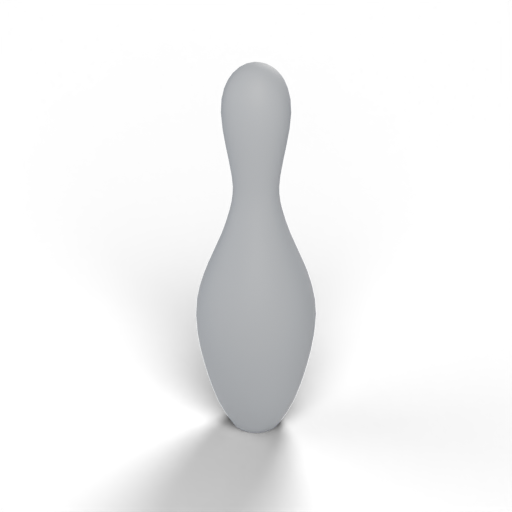
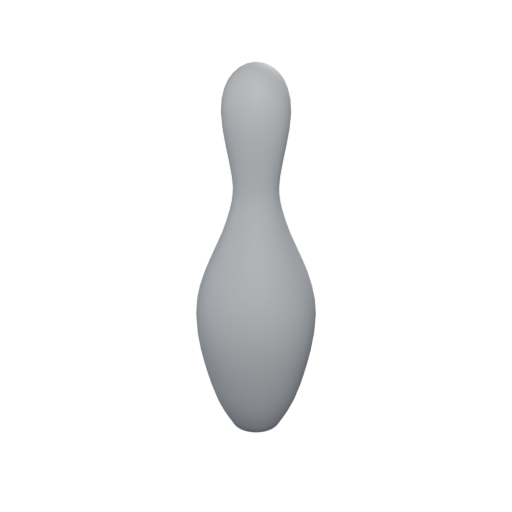
Remove shadows from thumbnails

Changed region(s): [[0.2188, 0.5938, 0.625, 1.0], [0.5312, 0.2812, 0.5625, 0.3438]]

diff --git a/scripts/sync_catalog.py b/scripts/sync_catalog.py
@@ -1,0 +1,114 @@
+"""Keep each catalog entry's "formats" map in sync with the files on disk.
+
+    python3 scripts/sync_catalog.py          # update catalog.json
+    python3 scripts/sync_catalog.py --check  # exit 1 if catalog.json is out of date (for CI)
+
+A model's formats are the files next to its `asset` that share its base name,
+e.g. models/coffee-mug.glb + models/coffee-mug.blend. Entries whose file no
+longer exists are dropped. Plain Python, no Blender needed; render_thumbnails.py
+also runs this before rendering.
+"""
+
+import argparse
+import json
+import os
+import sys
+
+ROOT = os.path.dirname(os.path.dirname(os.path.abspath(__file__)))
+CATALOG = os.path.join(ROOT, "catalog.json")
+
+# File extensions recognised as model formats. Blender backups (.blend1) are not listed on purpose.
+MODEL_EXTENSIONS = ("glb", "gltf", "blend", "fbx", "obj", "usdz", "usd", "usda", "usdc", "stl", "ply", "dae", "3mf")
+
+
+def detect_formats(entry):
+    """Return the formats map for one entry: the asset's own format first, then the rest alphabetically."""
+    asset = entry["asset"]
+    folder, name = os.path.split(asset)
+    stem, ext = os.path.splitext(name)
+    primary = ext.lstrip(".").lower()
+
+    found = {}
+    abs_folder = os.path.join(ROOT, folder)
+    if os.path.isdir(abs_folder):
+        for filename in os.listdir(abs_folder):
+            f_stem, f_ext = os.path.splitext(filename)
+            fmt = f_ext.lstrip(".").lower()
+            if f_stem == stem and fmt in MODEL_EXTENSIONS:
+                found[fmt] = f"{folder}/{filename}" if folder else filename
+
+    # Always list the asset itself, even if it is missing, so the problem stays visible.
+    found[primary] = asset
+    return {primary: asset, **{k: found[k] for k in sorted(found) if k != primary}}
+
+
+def sync_formats(catalog):
+    """Update every entry's "formats" in place. Returns a list of human-readable changes."""
+    changes = []
+    for i, entry in enumerate(catalog["models"]):
+        old = entry.get("formats", {})
+        new = detect_formats(entry)
+        if old == new:
+            continue
+        added = sorted(set(new) - set(old))
+        removed = sorted(set(old) - set(new))
+        parts = [f"+{f}" for f in added] + [f"-{f}" for f in removed]
+        changes.append(f"{entry['id']}: {' '.join(parts) or 'reordered'}")
+        # Rebuild the entry so "formats" sits right after "asset".
+        rebuilt = {}
+        for key, value in entry.items():
+            if key == "formats":
+                continue
+            rebuilt[key] = value
+            if key == "asset":
+                rebuilt["formats"] = new
+        catalog["models"][i] = rebuilt
+    return changes
+
+
+def load_catalog():
+    with open(CATALOG, encoding="utf-8") as f:
+        text = f.read()
+    return json.loads(text), text
+
+
+def dump_catalog(catalog, original_text):
+    text = json.dumps(catalog, indent=2, ensure_ascii=False)
+    return text + "\n" if original_text.endswith("\n") else text
+
+
+def save_catalog(catalog, original_text):
+    """Write catalog.json if it changed, keeping its formatting. Returns True if written."""
+    text = dump_catalog(catalog, original_text)
+    if text == original_text:
+        return False
+    with open(CATALOG, "w", encoding="utf-8") as f:
+        f.write(text)
+    return True
+
+
+def main():
+    p = argparse.ArgumentParser(prog="sync_catalog.py")
+    p.add_argument("--check", action="store_true", help="don't write; exit 1 if catalog.json is out of date")
+    args = p.parse_args()
+
+    catalog, original = load_catalog()
+    changes = sync_formats(catalog)
+    for change in changes:
+        print(f"[formats] {change}")
+
+    if args.check:
+        if changes:
+            print("[formats] catalog.json is out of date; run scripts/sync_catalog.py", file=sys.stderr)
+            sys.exit(1)
+        print("[formats] catalog.json is up to date")
+        return
+
+    if save_catalog(catalog, original):
+        print("[formats] updated catalog.json")
+    else:
+        print("[formats] catalog.json is up to date")
+
+
+if __name__ == "__main__":
+    main()

diff --git a/scripts/render_thumbnails.py b/scripts/render_thumbnails.py
@@ -12,13 +12,13 @@ Options (after the `--`):
     --cpu              Do not try GPU rendering.
 
 Each model is imported, framed from a fixed 3/4 angle, lit with a simple
-studio rig and rendered on a transparent background with a soft contact
-shadow. Output goes to thumbnails/<asset basename>.png and the model's
-"thumbnail" field in catalog.json is filled in when it is missing.
+studio rig and rendered on a transparent background (no floor shadow).
+Output goes to thumbnails/<asset basename>.png and the model's
+"thumbnail" field in catalog.json is filled in when it is missing. Each
+entry's "formats" map is also refreshed first (see sync_catalog.py).
 """
 
 import argparse
-import json
 import math
 import os
 import sys
@@ -27,8 +27,8 @@ import time
 import bpy
 from mathutils import Vector
 
-ROOT = os.path.dirname(os.path.dirname(os.path.abspath(__file__)))
-CATALOG = os.path.join(ROOT, "catalog.json")
+sys.path.insert(0, os.path.dirname(os.path.abspath(__file__)))
+from sync_catalog import ROOT, load_catalog, save_catalog, sync_formats  # noqa: E402
 
 # Camera looks down at the model from the front-right, like a product shot.
 VIEW_AZIMUTH_DEG = 35.0
@@ -196,22 +196,6 @@ def add_lighting(scene, lo, hi):
     scene.world = world
 
 
-def add_shadow_catcher(scene, lo, hi):
-    """Invisible floor that only keeps the model's shadow, so the PNG stays transparent."""
-    size = (hi - lo).length * 20
-    mesh = bpy.data.meshes.new("Floor")
-    half = size / 2
-    z = lo.z
-    mesh.from_pydata(
-        [(-half, -half, z), (half, -half, z), (half, half, z), (-half, half, z)], [], [(0, 1, 2, 3)]
-    )
-    floor = bpy.data.objects.new("Floor", mesh)
-    floor.location.x = (lo.x + hi.x) / 2
-    floor.location.y = (lo.y + hi.y) / 2
-    floor.is_shadow_catcher = True
-    scene.collection.objects.link(floor)
-
-
 def thumbnail_path(entry):
     base = os.path.splitext(os.path.basename(entry["asset"]))[0]
     return entry.get("thumbnail") or f"thumbnails/{base}.png"
@@ -233,29 +217,17 @@ def render_one(entry, args, thumb_rel):
     lo, hi = world_bounds(objects)
     add_camera(scene, lo, hi)
     add_lighting(scene, lo, hi)
-    add_shadow_catcher(scene, lo, hi)
     os.makedirs(os.path.dirname(out_path), exist_ok=True)
     scene.render.filepath = out_path
     bpy.ops.render.render(write_still=True)
     return device
 
 
-def save_catalog(catalog, original_text):
-    text = json.dumps(catalog, indent=2, ensure_ascii=False)
-    if original_text.endswith("\n"):
-        text += "\n"
-    if text != original_text:
-        with open(CATALOG, "w", encoding="utf-8") as f:
-            f.write(text)
-        return True
-    return False
-
-
 def main():
     args = parse_args()
-    with open(CATALOG, encoding="utf-8") as f:
-        original = f.read()
-    catalog = json.loads(original)
+    catalog, original = load_catalog()
+    for change in sync_formats(catalog):
+        print(f"[formats] {change}")
 
     models = catalog["models"]
     if args.only:
@@ -288,7 +260,7 @@ def main():
         print(f"[thumb] {entry['id']:<24} -> {thumb_rel}  ({time.time() - start:.1f}s, {device})")
 
     if save_catalog(catalog, original):
-        print("[thumb] updated thumbnail paths in catalog.json")
+        print("[thumb] updated catalog.json")
     print(f"[thumb] rendered {rendered}, up to date {skipped}, failed {len(failed)}")
     for model_id, reason in failed:
         print(f"[thumb] FAILED {model_id}: {reason}", file=sys.stderr)
